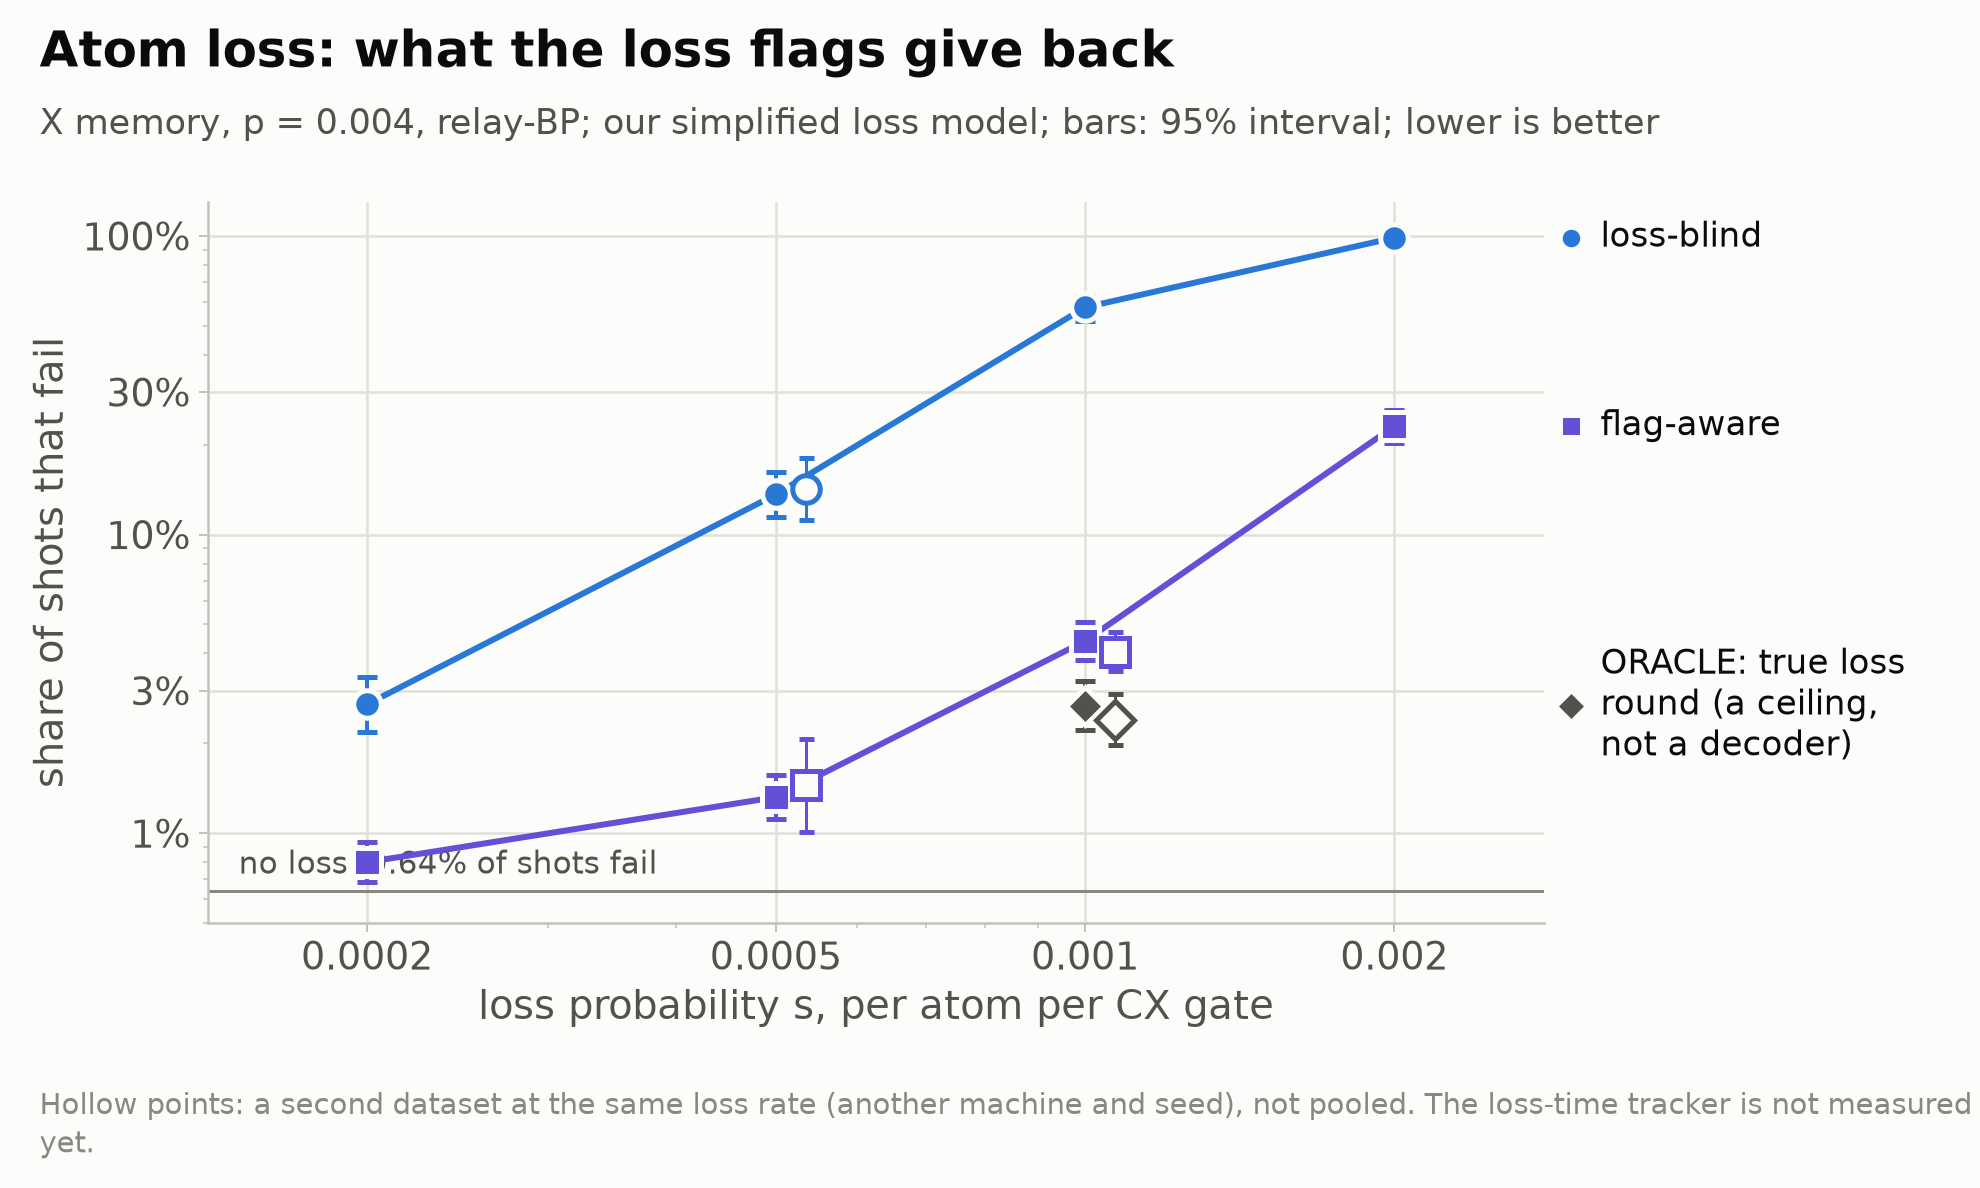
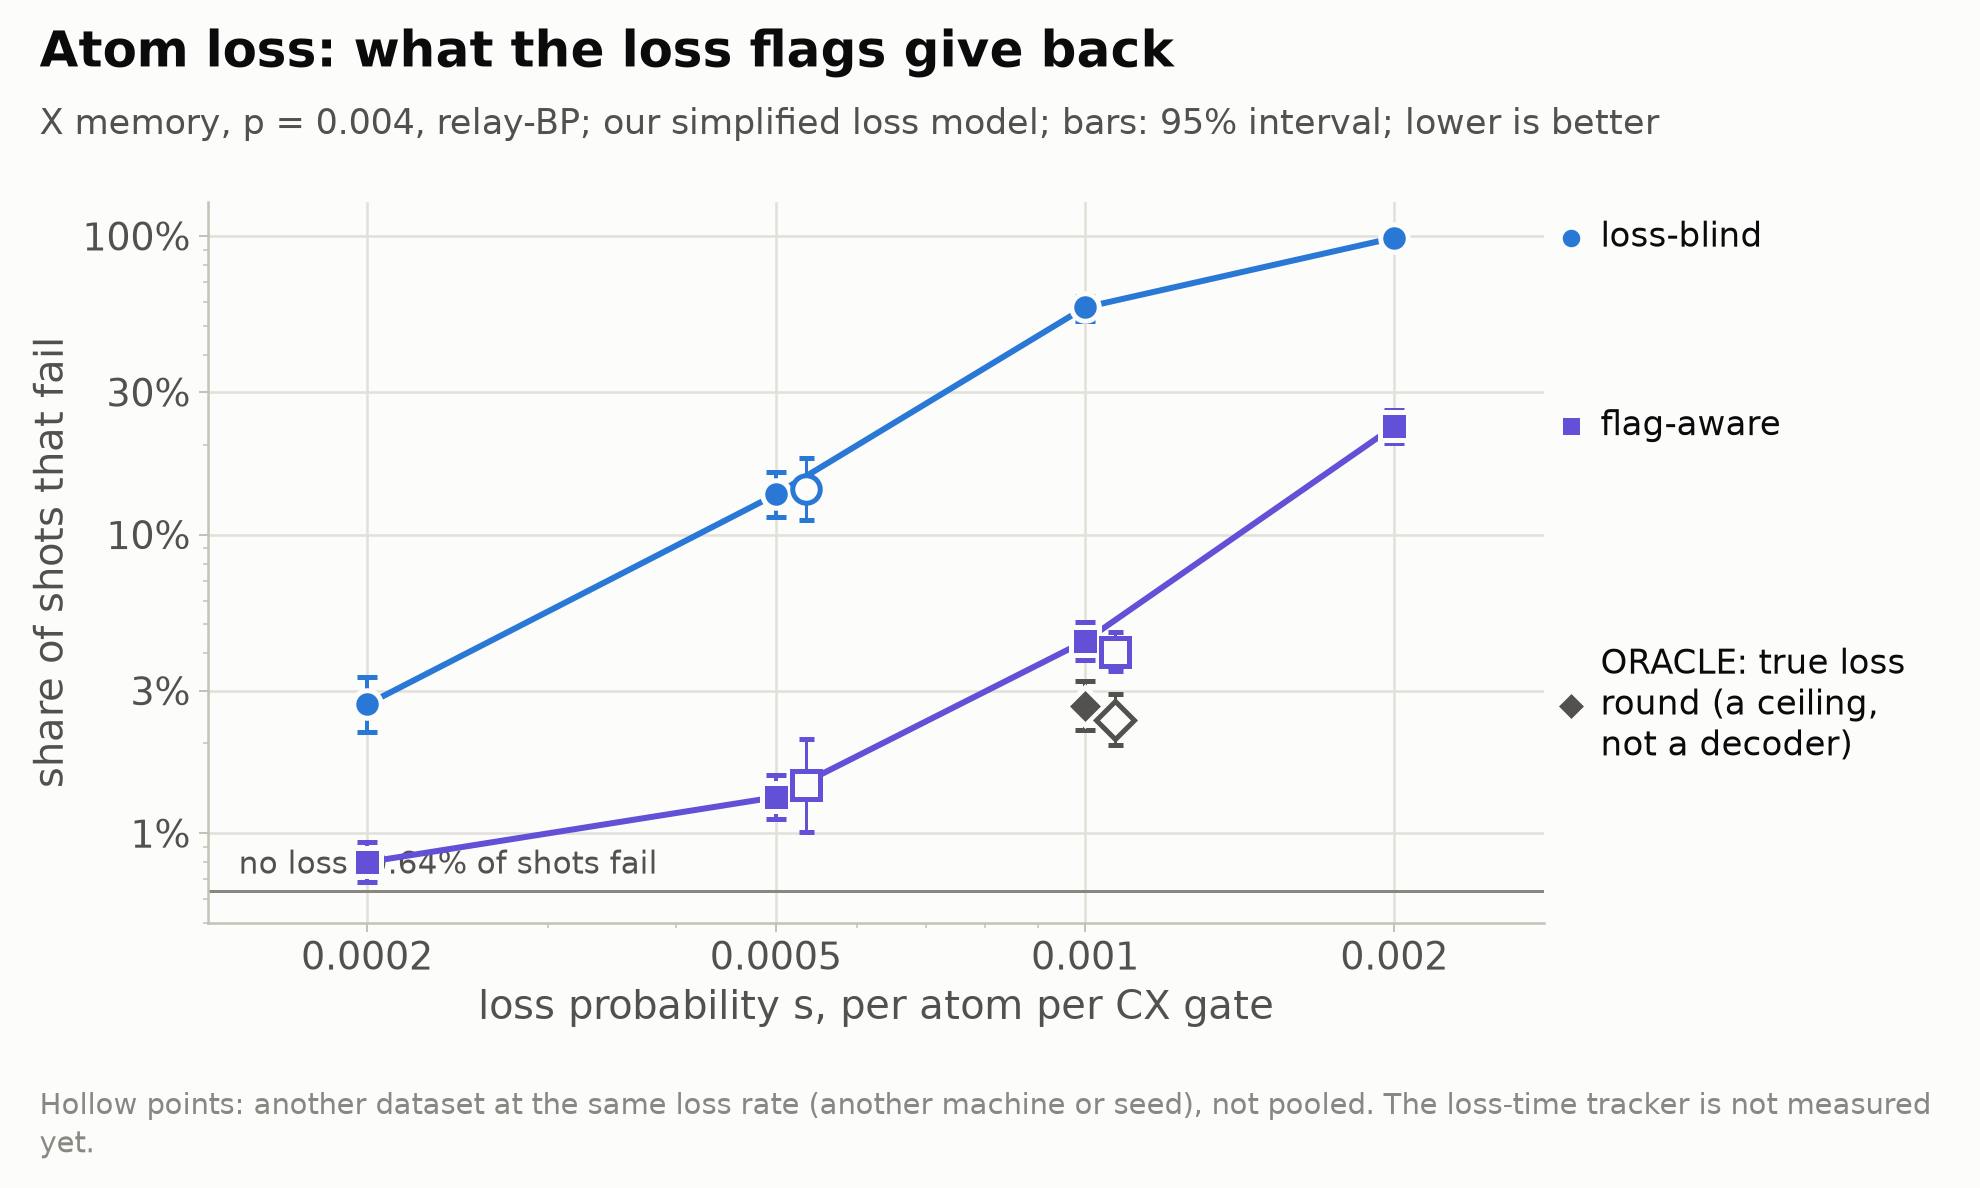
report: the loss-time tracker's rows ready to read from loss_tracker/results (test, replication, pooled): loss table, figure, and a generated sentence for the write-up
Claude-Session: https://claude.ai/code/session_01AptVDqFHqped6x2RL93S5p

Changed region(s): [[0.154, 0.9032, 1.0, 0.9343]]

diff --git a/challenge-1-ml-decoder-kit/report/make_tables.py b/challenge-1-ml-decoder-kit/report/make_tables.py
@@ -826,18 +826,22 @@ def exploration_p5_table():
 
 def loss_table():
     pc, server = loaders.loss_pc(DATA / "loss" / "pc"), loaders.loss_server(DATA / "loss" / "server")
+    tracked, shares = loaders.loss_tracker(DATA / "loss" / "tracker")
+    tracker_facts(tracked, shares)
+    server = server | tracked
     lines, records = [], []
     labels = {condition.key: condition.label for condition in LOSS_CONDITIONS}
     datasets = sorted({(row["s"], row["machine"], row["seed"]) for row in list(pc.values()) + list(server.values())})
     for s, machine, seed in datasets:
-        source = {key[-1]: row for key, row in (pc if machine == "this PC" else server).items() if row["s"] == s and row["seed"] == seed}
+        source = {key[-1]: row for key, row in (pc if (machine == "this PC" and seed < 7000) else server).items() if row["s"] == s and row["seed"] == seed}
         for condition in LOSS_CONDITIONS:
             row = source.get(condition.key)
             if row is None:
                 if condition.key in ("blind", "starter"):
                     lines.append([f"{s:g}", f"{machine}, seed {seed}", condition.label] + [NOT_MEASURED] * 3)
                 continue
-            versus = row.get("paired_by_reference", {}).get("blind" if condition.key == "starter" else "starter")
+            listed = row.get("paired_by_reference", {})
+            versus = listed.get("blind") if condition.key == "starter" else (listed.get("starter") or listed.get("exact"))
             paired = "" if not versus else (f"{versus['reference']} only {versus['reference_only']}, this row only {versus['row_only']} "
                                            f"(p = {stats.p_text(versus['p'])}); {versus['reference']} ÷ this = {versus['ratio']:.2f} "
                                            f"({versus['ratio95'][0]:.2f} to {versus['ratio95'][1]:.2f}), on {versus['shots']:,} shots")
@@ -972,6 +976,44 @@ def background_table():
             "the purpose: none of this is a result on the test shots.** Each line names the copied file under `report/data/` it is read from.\n\n"
             + markdown(["Question or attempt", "What was measured", "File"], lines))
     return write("background", text)
+
+
+def tracker_facts(tracked, shares):
+    """The loss-time tracker's numbers for the prose: its test split first, the replication and the pooled share beside it."""
+    source = "data/loss/tracker/test.json"
+    test = {key[-1]: row for key, row in tracked.items() if key[1] == 7300}
+    for name in ("starter", "exact", "tracker", "oracle-round"):
+        row = test.get(name)
+        fact(f"trk_{name.replace('-', '_')}", row and f"{row['failures']} of {row['shots']:,}", source)
+        fact(f"trk_{name.replace('-', '_')}_share", row and f"{row['failures'] / row['shots']:.2%}", source)
+    for reference in ("exact", "starter"):
+        versus = (test.get("tracker") or {}).get("paired_by_reference", {}).get(reference)
+        fact(f"trk_vs_{reference}", versus and (f"only {reference} fails {versus['reference_only']}, only the tracker {versus['row_only']}, "
+                                                f"exact p = {stats.p_text(versus['p'])}; {reference} ÷ tracker = {versus['ratio']:.2f} "
+                                                f"({versus['ratio95'][0]:.2f} to {versus['ratio95'][1]:.2f})"), source)
+    for name, label in (("test", "trk_gain"), ("replication_seed7310", "trk_gain_replication")):
+        entry = shares.get(name, {}).get(("tracker", "exact"))
+        fact(label, entry and f"{entry['share']:.0%} ({entry['share95'][0]:.0%} to {entry['share95'][1]:.0%})", f"data/loss/tracker/{name}.json")
+    pooled = DATA / "loss" / "tracker" / "pooled_7300_7310.json"
+    entry = None
+    if pooled.is_file():
+        table = json.loads(pooled.read_text(encoding="utf-8"))
+        entry = next((e for e in table.get("gain_share", []) if e["condition"] == "tracker" and e["reference"] == "exact"), None)
+    fact("trk_gain_pooled", entry and f"{entry['share']:.0%} ({entry['share95'][0]:.0%} to {entry['share95'][1]:.0%})", "data/loss/tracker/pooled_7300_7310.json")
+    accuracy = DATA / "loss" / "tracker" / "accuracy_test.md"
+    fact("trk_accuracy_file", "`report/data/loss/tracker/accuracy_test.md`" if accuracy.is_file() else None, "data/loss/tracker/accuracy_test.md")
+    value = lambda name: FACTS[name][0]
+    if test.get("tracker") and test.get("exact"):
+        sentence = (f"On the tracker's own test shots (a new set of {test['tracker']['shots']:,} shots at s = 0.001, the tracker frozen on validation shots "
+                    f"beforehand), relay-BP given the tracker's estimate fails {value('trk_tracker')}, against {value('trk_exact')} for the flag-aware "
+                    f"decoder that spreads the loss time evenly ({value('trk_vs_exact')}) and {value('trk_oracle_round')} for the ORACLE. "
+                    f"So the tracker recovers {value('trk_gain')} of the oracle's gain.")
+        if value("trk_gain_replication") != NOT_MEASURED:
+            sentence += f" A replication on the team's server, on other shots, gives {value('trk_gain_replication')}"
+            sentence += f"; both together, {value('trk_gain_pooled')}." if value("trk_gain_pooled") != NOT_MEASURED else "."
+    else:
+        sentence = "Its rows on its own test shots are not measured yet."
+    fact("trk_sentence", sentence, source)
 
 
 # ---------- the networks ----------

diff --git a/challenge-1-ml-decoder-kit/report/make_plots.py b/challenge-1-ml-decoder-kit/report/make_plots.py
@@ -308,9 +308,12 @@ def ler_vs_time(measured):
 
 def loss():
     pc, server = loaders.loss_pc(DATA / "loss" / "pc"), loaders.loss_server(DATA / "loss" / "server")
+    tracked, _ = loaders.loss_tracker(DATA / "loss" / "tracker")
     points = {}
-    for row in list(pc.values()) + list(server.values()):
+    for row in list(pc.values()) + list(server.values()) + list(tracked.values()):
         points.setdefault(row["condition"], {}).setdefault(row["s"], []).append(row)
+    # at a loss rate where the tracker was measured, the main line uses the tracker's own test shots, so its point and the others are paired
+    preferred = {row["s"]: row["seed"] for row in tracked.values() if row["condition"] == "tracker" and row["seed"] == 7300}
     figure, axes = new_figure("Atom loss: what the loss flags give back",
                               "X memory, p = 0.004, relay-BP; our simplified loss model; bars: 95% interval; lower is better")
     labels, drawn = [], []
@@ -318,7 +321,7 @@ def loss():
         by_s = points.get(condition.key)
         if not by_s:
             continue
-        best = {s: max(rows, key=lambda row: row["shots"]) for s, rows in by_s.items()}
+        best = {s: next((row for row in rows if row["seed"] == preferred.get(s)), None) or max(rows, key=lambda row: row["shots"]) for s, rows in by_s.items()}
         xs = sorted(best)
         ys = [best[s]["failures"] / best[s]["shots"] for s in xs]
         bounds = [stats.wilson(best[s]["failures"], best[s]["shots"]) for s in xs]
@@ -352,7 +355,9 @@ def loss():
     axes.set_xlabel("loss probability s, per atom per CX gate")
     axes.set_ylabel("share of shots that fail")
     end_labels(axes, labels)
-    note = "Hollow points: a second dataset at the same loss rate (another machine and seed), not pooled."
+    note = "Hollow points: another dataset at the same loss rate (another machine or seed), not pooled."
+    if preferred:
+        note += " At s = 0.001 the filled points are the tracker's own test shots (seed 7300), every condition on the same shots."
     if "tracker" not in drawn:
         note += " The loss-time tracker is not measured yet."
     footnote(figure, note)

diff --git a/challenge-1-ml-decoder-kit/report/loaders.py b/challenge-1-ml-decoder-kit/report/loaders.py
@@ -343,6 +343,36 @@ def loss_server(folder):
     return rows
 
 
+def loss_tracker(folder):
+    """The loss-time tracker's tables (loss_tracker.summarize: NAME.json): {(s, seed, condition): row}, and the share of the oracle's gain.
+
+    Every condition of one file decoded the same shots. The files name their dataset in TRACKER_FILES.
+    """
+    rows, shares = {}, {}
+    for name, (s, seed, machine) in TRACKER_FILES.items():
+        file = Path(folder) / f"{name}.json"
+        if not file.is_file():
+            continue
+        table = json.loads(file.read_text(encoding="utf-8"))
+        for reference, listed in table["tables"].items():
+            for row in listed:
+                key = (s, seed, row["condition"])
+                kept = rows.setdefault(key, {"s": s, "seed": seed, "condition": row["condition"], "failures": row["failures"], "shots": row["shots"],
+                                             "machine": machine, "paired_by_reference": {}, "source": str(file.relative_to(DATA)), "file": name})
+                if kept["failures"] != row["failures"] or kept["shots"] != row["shots"]:
+                    raise Mismatch(f"{file}: {row['condition']} has two different counts in one file")
+                if row.get("ref_only") is not None and reference != row["condition"]:
+                    kept["paired_by_reference"][reference] = {"reference": reference, "shots": row["paired_shots"], "reference_only": row["ref_only"],
+                                                              "row_only": row["cond_only"], "p": row["sign_test_p"], "ratio": row["ratio_ref_over_cond"],
+                                                              "ratio95": row["ratio95"]}
+        shares[name] = {(entry["condition"], entry["reference"]): entry for entry in table.get("gain_share", [])}
+    return rows, shares
+
+
+# The tracker's result files, and the dataset each one decoded: (s per atom per CX, Clifft seed, machine).
+TRACKER_FILES = {"test": (0.001, 7300, "this PC"), "replication_seed7310": (0.001, 7310, "ICRN server")}
+
+
 # ---------- the networks ----------
 
 def train_log(path):

diff --git a/challenge-1-ml-decoder-kit/report/sync_data.py b/challenge-1-ml-decoder-kit/report/sync_data.py
@@ -85,6 +85,11 @@ SOURCES = [
     ("loss/pc/", "tree", "loss/results/L1_X_p0.004_s*.json", False),
     ("loss/pc/", "tree", "loss/results/L3_*.json", False),
     ("loss/pc/", "tree", "loss/results/L4_timing.json", False),
+    # the loss-time tracker: its run on its test split (this PC, seed 7300), the replication (server, seed 7310), the pooled table
+    ("loss/tracker/", "tree", "loss_tracker/results/test.*", False),
+    ("loss/tracker/", "tree", "loss_tracker/results/replication_seed7310.*", False),
+    ("loss/tracker/", "tree", "loss_tracker/results/pooled_7300_7310.*", False),
+    ("loss/tracker/", "tree", "loss_tracker/results/accuracy_test.*", False),
     ("loss/server/L1_s2e-4_seed5100/tables.md", "origin/server-logs", "files/loss/L1_s2e-4_seed5100/tables.md", False),
     ("loss/server/L1_s5e-4_seed5200/tables.md", "origin/server-logs", "files/loss/L1_s5e-4_seed5200/tables.md", False),
     # two jobs wrote tables.md of the same folder: job A's tables (the oracles) are pinned at the commit that held them, job D's (the pieces of the map) are the file now

diff --git a/challenge-1-ml-decoder-kit/report/tables/facts.md b/challenge-1-ml-decoder-kit/report/tables/facts.md
@@ -622,3 +622,18 @@ Single numbers quoted in the prose of `REPORT.md` and `SLIDES.md` (written there
 | `tcbp_own5_rate` | 3.20e-03 | `tables/tcbp_own_shots.md` |
 | `tcbp_own5_xz` | 192, 188 | `tables/tcbp_own_shots.md` |
 | `tcbp_statement` | TCBP-JOBS, NVIDIA's GPU decoder, is not measured on the test shots yet; on the exploration shots at p = 0.004 it fails fewer pairs than our hierarchy (113 against 140 of 25,000). | `tables/test_all.md, tables/exploration_p0.004.md` |
+| `trk_accuracy_file` | not measured | `data/loss/tracker/accuracy_test.md` |
+| `trk_exact` | not measured | `data/loss/tracker/test.json` |
+| `trk_exact_share` | not measured | `data/loss/tracker/test.json` |
+| `trk_gain` | not measured | `data/loss/tracker/test.json` |
+| `trk_gain_pooled` | not measured | `data/loss/tracker/pooled_7300_7310.json` |
+| `trk_gain_replication` | not measured | `data/loss/tracker/replication_seed7310.json` |
+| `trk_oracle_round` | not measured | `data/loss/tracker/test.json` |
+| `trk_oracle_round_share` | not measured | `data/loss/tracker/test.json` |
+| `trk_sentence` | Its rows on its own test shots are not measured yet. | `data/loss/tracker/test.json` |
+| `trk_starter` | not measured | `data/loss/tracker/test.json` |
+| `trk_starter_share` | not measured | `data/loss/tracker/test.json` |
+| `trk_tracker` | not measured | `data/loss/tracker/test.json` |
+| `trk_tracker_share` | not measured | `data/loss/tracker/test.json` |
+| `trk_vs_exact` | not measured | `data/loss/tracker/test.json` |
+| `trk_vs_starter` | not measured | `data/loss/tracker/test.json` |

diff --git a/challenge-1-ml-decoder-kit/report/REPORT.md b/challenge-1-ml-decoder-kit/report/REPORT.md
@@ -151,7 +151,9 @@ X memory, p = 0.004, relay-BP at the kit's settings, at a loss rate of s = 0.001
   <!--f:loss_oracle_share-->2.7%<!--/f--> (<!--f:loss_oracle-->107 of 4,000<!--/f-->, the same shots): <!--f:loss_oracle_ratio-->1.64<!--/f--> times fewer than with the flags alone
   (<!--f:loss_oracle_ratio_interval-->1.42 to 1.94<!--/f-->). It is given the truth on purpose: a ceiling, not a decoder.
 - **The loss-time tracker** is our attempt to reach that ceiling from the syndrome history alone: a lost data atom
-  makes its neighbouring checks fire at random from the moment it is lost. *Its rows are not measured yet.*
+  makes its neighbouring checks fire at random from the moment it is lost, and a hidden Markov model over that
+  history estimates when (`loss_tracker/`). <!--f:trk_sentence-->Its rows on its own test shots are not measured yet.<!--/f--> It is measured at one noise point (p = 0.004,
+  s = 0.001), and its model is fitted at that point.
 - **What the model assumes.** After every CX gate each of its two atoms is lost with probability s. A lost check atom
   is flagged at its measurement and replaced; a lost data atom stays lost and is flagged only at the end. Flags are
   perfect, and losses are independent. This is our simplified model. It is not Infleqtion's hardware model. For

diff --git a/challenge-1-ml-decoder-kit/report/SLIDES.md b/challenge-1-ml-decoder-kit/report/SLIDES.md
@@ -80,7 +80,8 @@ Source: `report/tables/exploration_p0.004.md` and `report/tables/networks.md`.
   (<!--f:loss_blind-->173 of 300<!--/f-->); with the flags it fails <!--f:loss_aware_share-->4.4%<!--/f--> (<!--f:loss_aware-->176 of 4,000<!--/f-->), <!--f:loss_aware_ratio-->11.5<!--/f--> times fewer on the shots both decoded. Loss without its flags is ruinous; the flags give most of it back.
 - An ORACLE that is told the true round of each loss fails <!--f:loss_oracle_share-->2.7%<!--/f--> (<!--f:loss_oracle-->107 of 4,000<!--/f-->, the same shots):
   <!--f:loss_oracle_ratio-->1.64<!--/f--> times fewer than with the flags alone (<!--f:loss_oracle_ratio_interval-->1.42 to 1.94<!--/f-->).
-  That is a ceiling, not a decoder. Our tracker tries to estimate that round from the syndrome. *Pending: its result.*
+  That is a ceiling, not a decoder. Our tracker estimates that round from the syndrome history: it recovers
+  <!--f:trk_gain-->not measured<!--/f--> of the oracle's gain on its own test shots.
 
 Source: `report/tables/loss.md`. The loss model is our own simplified one, not Infleqtion's hardware model.
 
